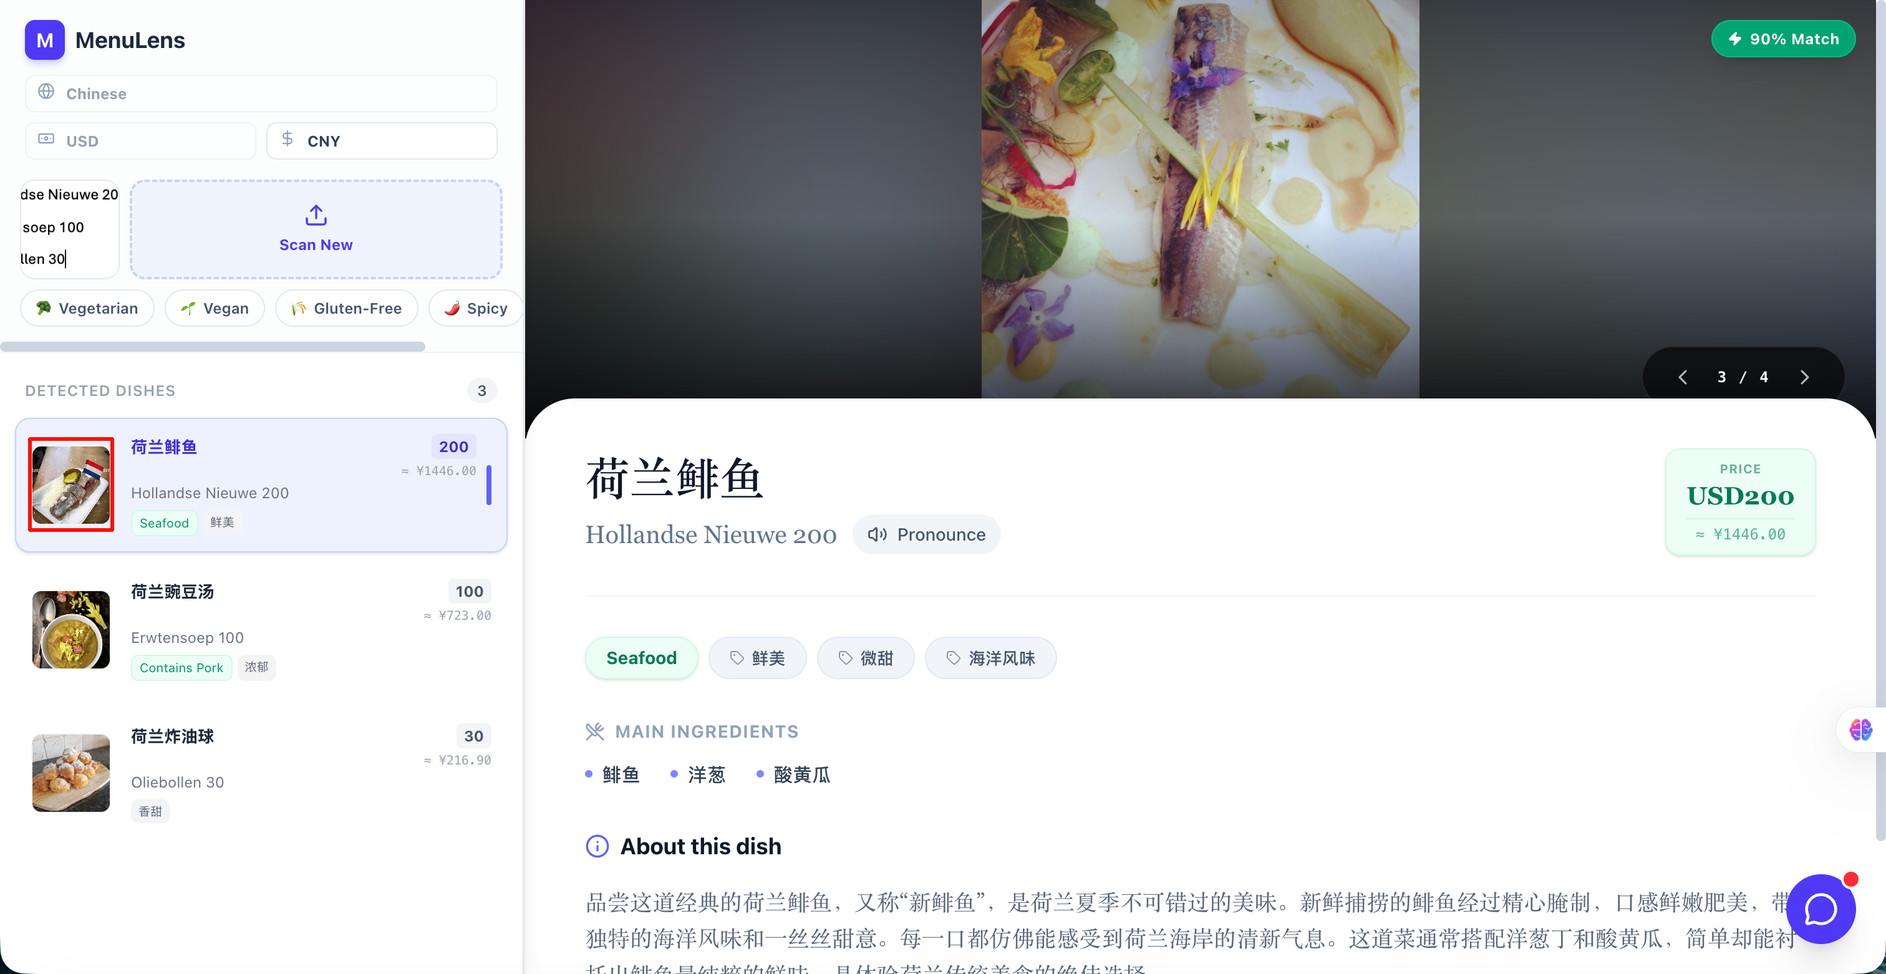
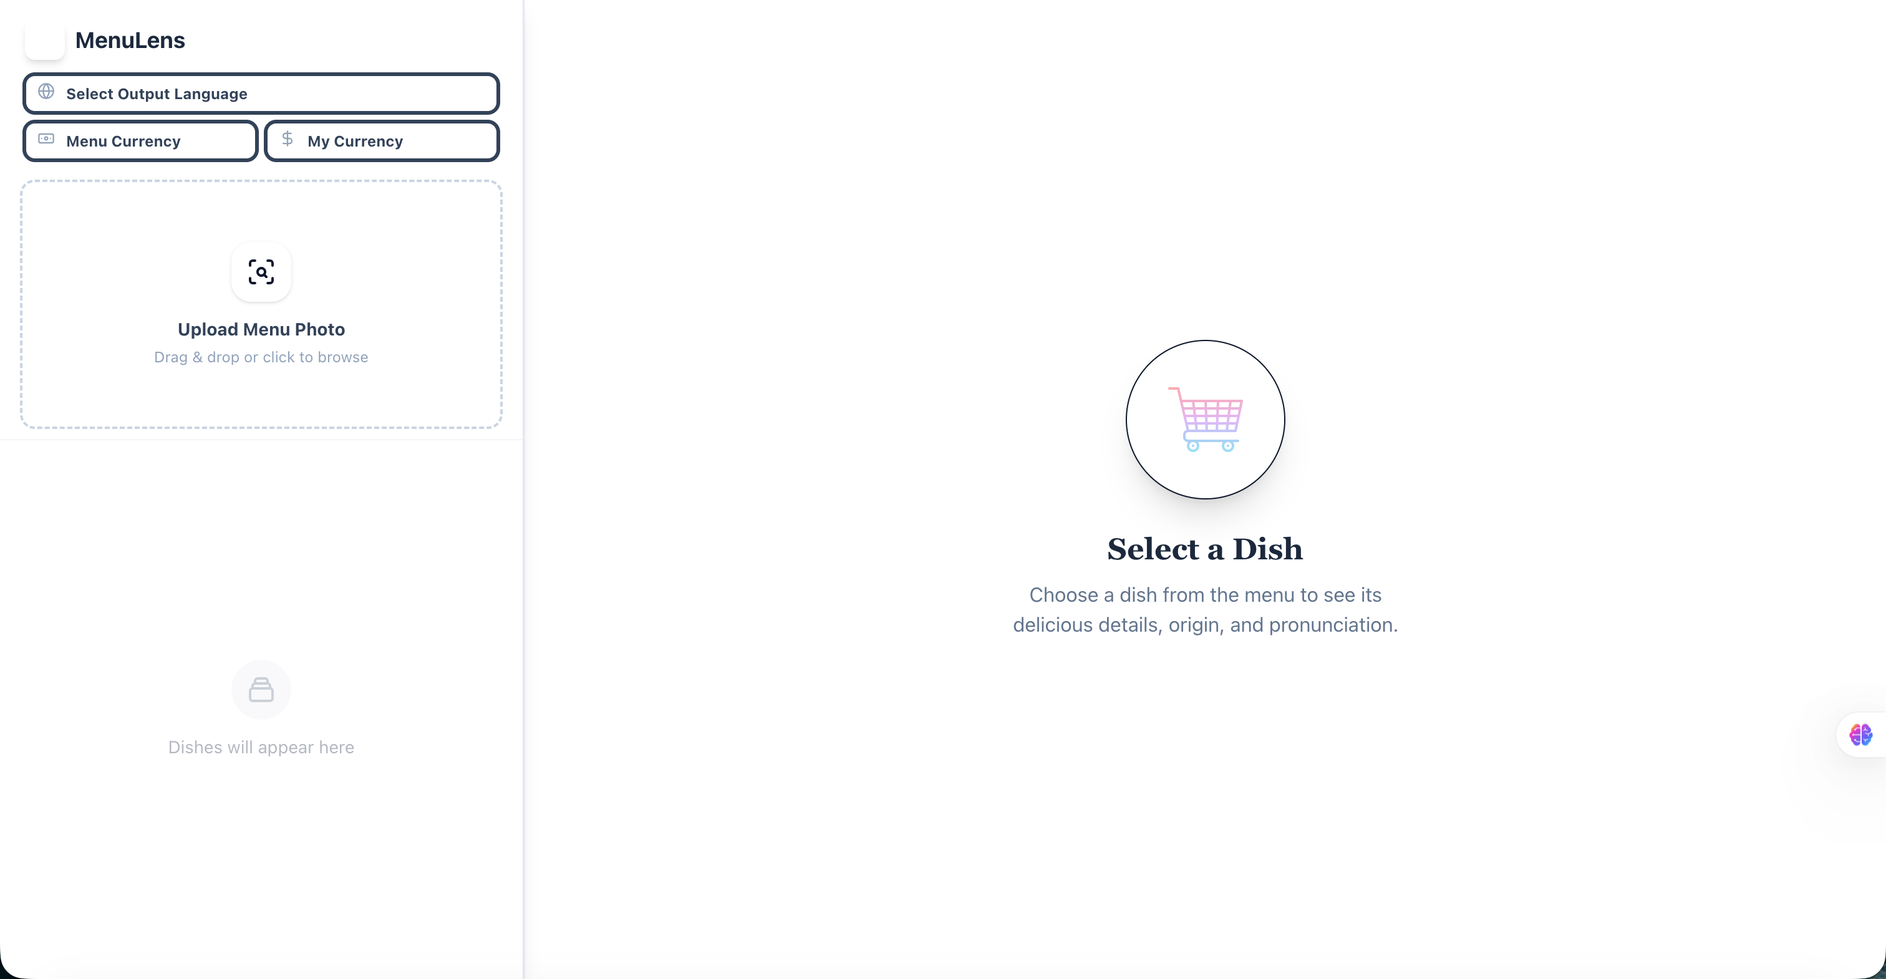
style(frontend): fix theme visibility by forcing global CSS variables
- Replace subtle cream backgrounds with stronger #FFF8F0 beige
- Increase border contrast from gray-200 to orange-300
- Make outline buttons solid/filled for better visibility
- Enforce global scrollbar styling via index.css

diff --git a/frontend/src/components/MasterPanel.jsx b/frontend/src/components/MasterPanel.jsx
@@ -46,36 +46,36 @@ export default function MasterPanel({
   };
 
   return (
-    <aside className="w-full md:w-[380px] lg:w-[420px] bg-white border-r border-gray-200 flex flex-col h-full shrink-0 z-20 shadow-lg">
+    <aside className="w-full md:w-[380px] lg:w-[420px] bg-white border-r border-orange-200/50 flex flex-col h-full shrink-0 z-20 shadow-xl">
       
       {/* Top: Upload Area */}
-      <div className="shrink-0 border-b border-gray-100 bg-cream-50/50">
+      <div className="shrink-0 border-b border-orange-100 bg-cream-canvas/50 backdrop-blur-sm">
          <div className="p-4 pb-2">
             {/* Header */}
             <div className="flex flex-col gap-3 mb-4 px-1">
                <div className="flex items-center justify-between">
                  <div className="flex items-center gap-2">
-                   <div className="w-8 h-8 bg-brand-600 rounded-lg flex items-center justify-center text-white font-bold shadow-brand-200 shadow-md">M</div>
-                   <h1 className="text-lg font-bold text-slate-800">MenuLens</h1>
+                   <div className="w-8 h-8 bg-brand-primary rounded-lg flex items-center justify-center text-white font-bold shadow-lg shadow-orange-200">M</div>
+                   <h1 className="text-xl font-bold text-slate-900 tracking-tight">MenuLens</h1>
                  </div>
                </div>
                
                {/* Controls Grid */}
-               <div className="grid grid-cols-2 gap-2">
+               <div className="grid grid-cols-2 gap-3">
                  {/* Language Selector */}
                  <div className="relative col-span-2">
                    <select 
                      value={targetLanguage}
                      onChange={(e) => setTargetLanguage(e.target.value)}
                      disabled={allDishesCount > 0} 
-                     className={`w-full appearance-none bg-white border ${!targetLanguage ? 'border-brand-300 ring-2 ring-brand-100' : 'border-gray-200'} text-slate-700 text-xs font-bold py-1.5 pl-8 pr-2 rounded-lg focus:outline-none focus:ring-2 focus:ring-brand-500 cursor-pointer hover:border-brand-300 transition-colors ${allDishesCount > 0 ? 'opacity-50 cursor-not-allowed' : ''}`}
+                     className={`w-full appearance-none bg-orange-50 border ${!targetLanguage ? 'border-orange-400 ring-2 ring-orange-200' : 'border-orange-200'} text-slate-800 text-xs font-bold py-2.5 pl-9 pr-2 rounded-xl focus:outline-none focus:ring-2 focus:ring-orange-500 cursor-pointer hover:bg-orange-100 transition-colors ${allDishesCount > 0 ? 'opacity-50 cursor-not-allowed' : ''}`}
                    >
                      <option value="" disabled>Select Output Language</option>
                      {AVAILABLE_LANGUAGES.map(l => (
                        <option key={l} value={l}>{l}</option>
                      ))}
                    </select>
-                   <Globe className="absolute left-2.5 top-1.5 w-3.5 h-3.5 text-slate-400 pointer-events-none" />
+                   <Globe className="absolute left-3 top-2.5 w-4 h-4 text-orange-600 pointer-events-none" />
                  </div>
 
                  {/* Menu Currency (Source) */}
@@ -84,14 +84,14 @@ export default function MasterPanel({
                      value={sourceCurrency}
                      onChange={(e) => setSourceCurrency(e.target.value)}
                      disabled={allDishesCount > 0}
-                     className={`w-full appearance-none bg-white border ${!sourceCurrency ? 'border-brand-300 ring-2 ring-brand-100' : 'border-gray-200'} text-slate-700 text-xs font-bold py-1.5 pl-8 pr-2 rounded-lg focus:outline-none focus:ring-2 focus:ring-brand-500 cursor-pointer hover:border-brand-300 transition-colors ${allDishesCount > 0 ? 'opacity-50 cursor-not-allowed' : ''}`}
+                     className={`w-full appearance-none bg-white border ${!sourceCurrency ? 'border-orange-300 ring-2 ring-orange-100' : 'border-slate-200'} text-slate-700 text-xs font-bold py-2.5 pl-9 pr-2 rounded-xl focus:outline-none focus:ring-2 focus:ring-orange-500 cursor-pointer hover:border-orange-400 transition-colors ${allDishesCount > 0 ? 'opacity-50 cursor-not-allowed' : ''}`}
                    >
                      <option value="" disabled>Menu Currency</option>
                      {AVAILABLE_CURRENCIES.map(c => (
                        <option key={c} value={c}>{c}</option>
                      ))}
                    </select>
-                   <Banknote className="absolute left-2.5 top-1.5 w-3.5 h-3.5 text-slate-400 pointer-events-none" />
+                   <Banknote className="absolute left-3 top-2.5 w-4 h-4 text-slate-400 pointer-events-none" />
                  </div>
 
                  {/* My Currency (Target) */}
@@ -99,14 +99,14 @@ export default function MasterPanel({
                    <select 
                      value={targetCurrency}
                      onChange={(e) => setTargetCurrency(e.target.value)}
-                     className={`w-full appearance-none bg-white border ${!targetCurrency ? 'border-brand-300 ring-2 ring-brand-100' : 'border-gray-200'} text-slate-700 text-xs font-bold py-1.5 pl-8 pr-2 rounded-lg focus:outline-none focus:ring-2 focus:ring-brand-500 cursor-pointer hover:border-brand-300 transition-colors`}
+                     className={`w-full appearance-none bg-white border ${!targetCurrency ? 'border-orange-300 ring-2 ring-orange-100' : 'border-slate-200'} text-slate-700 text-xs font-bold py-2.5 pl-9 pr-2 rounded-xl focus:outline-none focus:ring-2 focus:ring-orange-500 cursor-pointer hover:border-orange-400 transition-colors`}
                    >
                      <option value="" disabled>My Currency</option>
                      {AVAILABLE_CURRENCIES.map(c => (
                        <option key={c} value={c}>{c}</option>
                      ))}
                    </select>
-                   <DollarSign className="absolute left-2.5 top-1.5 w-3.5 h-3.5 text-slate-400 pointer-events-none" />
+                   <DollarSign className="absolute left-3 top-2.5 w-4 h-4 text-slate-400 pointer-events-none" />
                  </div>
                </div>
             </div>
@@ -135,10 +135,10 @@ export default function MasterPanel({
                 <button
                   key={filter.id}
                   onClick={() => toggleFilter(filter.id)}
-                  className={`whitespace-nowrap flex items-center gap-1.5 px-3 py-1.5 rounded-full text-xs font-semibold border transition-all duration-200
+                  className={`whitespace-nowrap flex items-center gap-1.5 px-3 py-1.5 rounded-full text-xs font-bold border transition-all duration-200 shadow-sm
                     ${activeFilters.includes(filter.id)
-                      ? 'bg-brand-600 text-white border-brand-600 shadow-sm'
-                      : 'bg-white text-slate-600 border-slate-200 hover:border-brand-300 hover:bg-brand-50'}
+                      ? 'bg-brand-primary text-white border-orange-600 shadow-md transform scale-105'
+                      : 'bg-white text-slate-600 border-slate-200 hover:border-orange-300 hover:text-orange-600 hover:bg-orange-50'}
                   `}
                 >
                   <span>{filter.icon}</span>
@@ -151,17 +151,17 @@ export default function MasterPanel({
 
       {/* Progress Bar */}
       {showProgress && (
-        <div className="px-6 py-2 bg-brand-50 border-b border-brand-100 animate-fade-in">
-           <div className="flex justify-between items-center text-xs font-semibold text-brand-700 mb-1.5">
+        <div className="px-6 py-2 bg-orange-50 border-b border-orange-100 animate-fade-in">
+           <div className="flex justify-between items-center text-xs font-bold text-orange-700 mb-1.5">
              <span className="flex items-center gap-1.5">
-               <Loader2 className="w-3 h-3 animate-spin" />
+               <Loader2 className="w-3.5 h-3.5 animate-spin" />
                Finding images...
              </span>
              <span>{imageProgress.current} / {imageProgress.total}</span>
            </div>
-           <div className="w-full h-1.5 bg-brand-200 rounded-full overflow-hidden">
+           <div className="w-full h-1.5 bg-orange-200 rounded-full overflow-hidden">
              <div 
-               className="h-full bg-brand-600 rounded-full transition-all duration-300 ease-out"
+               className="h-full bg-brand-primary rounded-full transition-all duration-300 ease-out"
                style={{ width: `${progressPercent}%` }}
              />
            </div>
@@ -169,12 +169,12 @@ export default function MasterPanel({
       )}
 
       {/* Bottom: Dish List */}
-      <div className="flex-1 overflow-y-auto p-3 custom-scrollbar">
+      <div className="flex-1 overflow-y-auto p-3 custom-scrollbar bg-white/50">
         {dishes && dishes.length > 0 ? (
           <div className="space-y-1">
-            <h3 className="text-xs font-semibold text-gray-400 uppercase tracking-wider mb-3 px-2 mt-2 flex justify-between items-center">
+            <h3 className="text-xs font-bold text-slate-400 uppercase tracking-wider mb-3 px-2 mt-2 flex justify-between items-center">
               <span>Detected Dishes</span>
-              <span className="bg-gray-100 text-gray-600 px-2 py-0.5 rounded-full">{dishes.length}</span>
+              <span className="bg-orange-100 text-orange-700 px-2 py-0.5 rounded-full font-mono">{dishes.length}</span>
             </h3>
             {dishes.map((dish, index) => (
               <DishListItem 
@@ -183,17 +183,16 @@ export default function MasterPanel({
                 targetCurrency={targetCurrency}
                 isSelected={selectedDish && selectedDish.original_name === dish.original_name}
                 onClick={() => onSelectDish(dish)}
-                isSearching={showProgress} // Pass isSearching state
               />
             ))}
           </div>
         ) : (
           !isLoading && (
-            <div className="h-full flex flex-col items-center justify-center text-center p-6 opacity-50">
-              <div className="w-12 h-12 bg-gray-100 rounded-full flex items-center justify-center mb-3">
-                <svg className="w-6 h-6 text-gray-400" fill="none" stroke="currentColor" viewBox="0 0 24 24"><path strokeLinecap="round" strokeLinejoin="round" strokeWidth={2} d="M19 11H5m14 0a2 2 0 012 2v6a2 2 0 01-2 2H5a2 2 0 01-2-2v-6a2 2 0 012-2m14 0V9a2 2 0 00-2-2M5 11V9a2 2 0 012-2m0 0V5a2 2 0 012-2h6a2 2 0 012 2v2M7 7h10" /></svg>
+            <div className="h-full flex flex-col items-center justify-center text-center p-6 opacity-60">
+              <div className="w-16 h-16 bg-orange-50 rounded-2xl flex items-center justify-center mb-4 border border-orange-100">
+                <svg className="w-8 h-8 text-orange-300" fill="none" stroke="currentColor" viewBox="0 0 24 24"><path strokeLinecap="round" strokeLinejoin="round" strokeWidth={2} d="M19 11H5m14 0a2 2 0 012 2v6a2 2 0 01-2 2H5a2 2 0 01-2-2v-6a2 2 0 012-2m14 0V9a2 2 0 00-2-2M5 11V9a2 2 0 012-2m0 0V5a2 2 0 012-2h6a2 2 0 012 2v2M7 7h10" /></svg>
               </div>
-              <p className="text-sm text-gray-500">Dishes will appear here</p>
+              <p className="text-sm font-medium text-slate-500">Dishes will appear here</p>
             </div>
           )
         )}
@@ -252,7 +251,7 @@ function UploadSection({ onUpload, isLoading, onReset, hasDishes, validateConfig
   // If already uploaded and showing results
   if (hasDishes) {
     return (
-      <div className="flex gap-2 h-[80px]">
+      <div className="flex gap-3 h-[80px]">
         {/* Lightbox Modal */}
         <AnimatePresence>
           {showLightbox && previewUrl && (
@@ -273,18 +272,18 @@ function UploadSection({ onUpload, isLoading, onReset, hasDishes, validateConfig
 
         {/* Left: Thumbnail Preview */}
         <div 
-          className="relative w-[80px] h-full rounded-xl overflow-hidden border border-gray-200 cursor-zoom-in group"
+          className="relative w-[80px] h-full rounded-xl overflow-hidden border-2 border-orange-200 cursor-zoom-in group shadow-sm bg-white"
           onClick={() => setShowLightbox(true)}
         >
           {previewUrl && <img src={previewUrl} className="w-full h-full object-cover" alt="Menu Thumbnail" />}
           <div className="absolute inset-0 bg-black/0 group-hover:bg-black/20 transition-colors flex items-center justify-center">
-            <ZoomIn className="w-5 h-5 text-white opacity-0 group-hover:opacity-100 transition-opacity" />
+            <ZoomIn className="w-5 h-5 text-white opacity-0 group-hover:opacity-100 transition-opacity drop-shadow-md" />
           </div>
         </div>
 
         {/* Right: Scan New Button */}
         <div 
-          className="flex-1 relative overflow-hidden rounded-xl border-2 border-dashed border-brand-200 bg-brand-50/50 hover:bg-brand-50 transition-colors cursor-pointer flex items-center justify-center group"
+          className="flex-1 relative overflow-hidden rounded-xl border-2 border-dashed border-orange-300 bg-orange-50 hover:bg-orange-100 transition-all cursor-pointer flex items-center justify-center group"
           onClick={() => {
             onReset();
             setPreviewUrl(null);
@@ -293,9 +292,9 @@ function UploadSection({ onUpload, isLoading, onReset, hasDishes, validateConfig
           }}
         >
            <input ref={fileInputRef} type="file" accept="image/*" onChange={(e) => e.target.files[0] && handleFileSelect(e.target.files[0])} className="hidden" />
-           <div className="flex flex-col items-center justify-center gap-1 text-brand-600">
+           <div className="flex flex-col items-center justify-center gap-1 text-orange-600">
              <Upload className="w-5 h-5 group-hover:-translate-y-0.5 transition-transform" />
-             <span className="text-xs font-bold">Scan New</span>
+             <span className="text-xs font-bold uppercase tracking-wide">Scan New</span>
            </div>
         </div>
       </div>
@@ -304,8 +303,8 @@ function UploadSection({ onUpload, isLoading, onReset, hasDishes, validateConfig
 
   return (
     <div 
-       className={`relative overflow-hidden rounded-xl border-2 transition-all duration-200 group h-[200px] flex flex-col items-center justify-center
-         ${previewUrl ? 'border-transparent bg-slate-900' : (dragActive ? 'border-brand-500 bg-brand-50' : 'border-dashed border-slate-300 bg-white hover:border-brand-400')}
+       className={`relative overflow-hidden rounded-xl border-2 transition-all duration-200 group h-[200px] flex flex-col items-center justify-center shadow-sm
+         ${previewUrl ? 'border-transparent bg-slate-900' : (dragActive ? 'border-orange-500 bg-orange-50' : 'border-dashed border-slate-300 bg-white hover:border-orange-400 hover:bg-orange-50/30')}
          ${isLoading ? 'pointer-events-none' : ''}
        `}
        onClick={() => !previewUrl && fileInputRef.current?.click()}
@@ -324,7 +323,7 @@ function UploadSection({ onUpload, isLoading, onReset, hasDishes, validateConfig
            <img src={previewUrl} className={`w-full h-full object-contain ${isLoading ? 'opacity-50 blur-sm' : ''}`} alt="Preview" />
            
            {/* Overlay Controls */}
-           <div className="absolute inset-0 flex flex-col items-center justify-center bg-black/30 backdrop-blur-[2px] transition-all p-4">
+           <div className="absolute inset-0 flex flex-col items-center justify-center bg-black/40 backdrop-blur-[2px] transition-all p-4">
               
               {isLoading ? (
                 <div className="flex flex-col items-center">
@@ -335,15 +334,15 @@ function UploadSection({ onUpload, isLoading, onReset, hasDishes, validateConfig
                 <div className="flex flex-col gap-3 w-full max-w-[200px] animate-fade-in">
                   <button 
                     onClick={handleStartScan} 
-                    className="w-full py-2.5 bg-brand-600 hover:bg-brand-700 text-white font-bold rounded-lg shadow-xl flex items-center justify-center gap-2 transform transition-transform hover:scale-105 active:scale-95"
+                    className="w-full py-3 bg-brand-primary hover:bg-orange-700 text-white font-bold rounded-xl shadow-xl flex items-center justify-center gap-2 transform transition-transform hover:scale-105 active:scale-95 border border-white/20"
                   >
-                    <ScanSearch className="w-4 h-4" />
+                    <ScanSearch className="w-5 h-5" />
                     Scan Menu
                   </button>
                   
                   <button 
                     onClick={handleClear}
-                    className="w-full py-2 bg-white/20 hover:bg-white/30 text-white text-xs font-medium rounded-lg backdrop-blur-md transition-colors flex items-center justify-center gap-1"
+                    className="w-full py-2 bg-black/40 hover:bg-black/60 text-white text-xs font-bold rounded-lg backdrop-blur-md transition-colors flex items-center justify-center gap-1 border border-white/10"
                   >
                     <X className="w-3 h-3" />
                     Cancel
@@ -354,11 +353,11 @@ function UploadSection({ onUpload, isLoading, onReset, hasDishes, validateConfig
          </>
        ) : (
          <div className="text-center p-4 cursor-pointer">
-            <div className="w-12 h-12 bg-brand-50 text-brand-600 rounded-2xl flex items-center justify-center mx-auto mb-3 shadow-sm group-hover:scale-110 transition-transform">
-              <ScanSearch className="w-6 h-6" />
+            <div className="w-14 h-14 bg-orange-50 text-orange-500 rounded-2xl flex items-center justify-center mx-auto mb-4 shadow-sm border border-orange-100 group-hover:scale-110 group-hover:bg-orange-100 transition-all duration-300">
+              <ScanSearch className="w-7 h-7" />
             </div>
-            <span className="text-sm font-bold text-slate-700 block">Upload Menu Photo</span>
-            <p className="text-xs text-slate-400 mt-1">Drag & drop or click to browse</p>
+            <span className="text-base font-bold text-slate-800 block">Upload Menu Photo</span>
+            <p className="text-xs text-slate-500 mt-1 font-medium">Drag & drop or click to browse</p>
          </div>
        )}
     </div>

diff --git a/frontend/frontend/src/App.jsx b/frontend/frontend/src/App.jsx
@@ -34,19 +34,17 @@ function App() {
   const [targetLanguage, setTargetLanguage] = useState('');
   const [activeFilters, setActiveFilters] = useState([]);
   
-  // New: Store the uploaded file URL for reference
   const [menuImageFile, setMenuImageFile] = useState(null);
   
   const isMobile = useMediaQuery('(max-width: 768px)');
 
   const handleUpload = async (file) => {
-    // Note: Validation is now handled inside MasterPanel before calling this
     setError(null);
     setLoading(true);
     setDishes([]);
     setSelectedDish(null);
     setImageProgress({ current: 0, total: 0 });
-    setMenuImageFile(file); // Store the file
+    setMenuImageFile(file);
 
     try {
       const response = await analyzeMenuText(file, targetLanguage, sourceCurrency);
@@ -139,7 +137,8 @@ function App() {
 
   return (
     <ErrorBoundary>
-      <div className="flex h-screen w-screen overflow-hidden bg-cream-50 font-sans text-slate-900 selection:bg-brand-100 selection:text-brand-700">
+      {/* Use explicit bg-cream-canvas class for global background */}
+      <div className="flex h-screen w-screen overflow-hidden bg-cream-canvas font-sans text-slate-900 selection:bg-orange-200 selection:text-orange-900">
         
         <AnnouncementModal 
           isOpen={showAnnouncement} 
@@ -170,11 +169,11 @@ function App() {
           activeFilters={activeFilters}
           setActiveFilters={setActiveFilters}
           showValidationModal={() => setShowValidation(true)}
-          currentMenuFile={menuImageFile} // Pass the file
+          currentMenuFile={menuImageFile} 
         />
 
         {/* Right: Detail Panel (Desktop Only) */}
-        <main className="hidden md:block flex-1 relative h-full overflow-hidden bg-white shadow-xl z-10 border-l border-slate-100">
+        <main className="hidden md:block flex-1 relative h-full overflow-hidden bg-white shadow-2xl z-10 border-l border-orange-200/50">
           {error ? (
             <div className="flex items-center justify-center h-full p-8 text-red-600 bg-red-50">
               <div className="text-center">
@@ -183,7 +182,7 @@ function App() {
               </div>
             </div>
           ) : loading ? (
-            <div className="h-full flex items-center justify-center">
+            <div className="h-full flex items-center justify-center bg-cream-canvas">
                <LoadingState step="analyzing" />
             </div>
           ) : (

diff --git a/frontend/frontend/src/index.css b/frontend/frontend/src/index.css
@@ -1,0 +1,81 @@
+@import "tailwindcss";
+@import url("https://fonts.googleapis.com/css2?family=Inter:wght@300;400;500;600;700&family=Playfair+Display:ital,wght@0,400;0,600;0,700;1,400&display=swap");
+
+html, body, #root {
+  height: 100%;
+  margin: 0;
+  padding: 0;
+  background-color: #FFF8F0; /* 强制全局米黄色背景 */
+}
+
+/* 强制覆盖 Scrollbar 样式，使其可见 */
+::-webkit-scrollbar {
+  width: 8px;
+  height: 8px;
+}
+::-webkit-scrollbar-track {
+  background: rgba(255, 237, 213, 0.5); /* Orange-100/50 */
+}
+::-webkit-scrollbar-thumb {
+  background: #fdba74; /* Orange-300 */
+  border-radius: 4px;
+}
+::-webkit-scrollbar-thumb:hover {
+  background: #fb923c; /* Orange-400 */
+}
+
+/* 
+  Global Utility Classes for Consistency 
+  Using standard Tailwind colors to guarantee visibility
+*/
+.bg-cream-canvas {
+  background-color: #FFF8F0 !important;
+}
+
+.bg-cream-card {
+  background-color: #FFFFFF !important;
+  border: 1px solid #FED7AA; /* Orange-200 */
+}
+
+.text-brand-primary {
+  color: #EA580C; /* Orange-600 */
+}
+
+.bg-brand-primary {
+  background-color: #EA580C; /* Orange-600 */
+}
+
+.btn-brand-solid {
+  background-color: #EA580C;
+  color: white;
+  transition: all 0.2s;
+}
+.btn-brand-solid:hover {
+  background-color: #C2410C; /* Orange-700 */
+  transform: translateY(-1px);
+  box-shadow: 0 4px 6px -1px rgba(234, 88, 12, 0.3);
+}
+
+.btn-brand-soft {
+  background-color: #FFEDD5; /* Orange-100 */
+  color: #C2410C; /* Orange-700 */
+  border: 1px solid #FDBA74; /* Orange-300 */
+}
+.btn-brand-soft:hover {
+  background-color: #FED7AA; /* Orange-200 */
+}
+
+/* Typography */
+h1, h2, h3 {
+  font-family: 'Playfair Display', serif;
+}
+
+/* Animation Utilities */
+.animate-fade-in {
+  animation: fadeIn 0.5s ease-out forwards;
+}
+
+@keyframes fadeIn {
+  from { opacity: 0; transform: translateY(10px); }
+  to { opacity: 1; transform: translateY(0); }
+}
